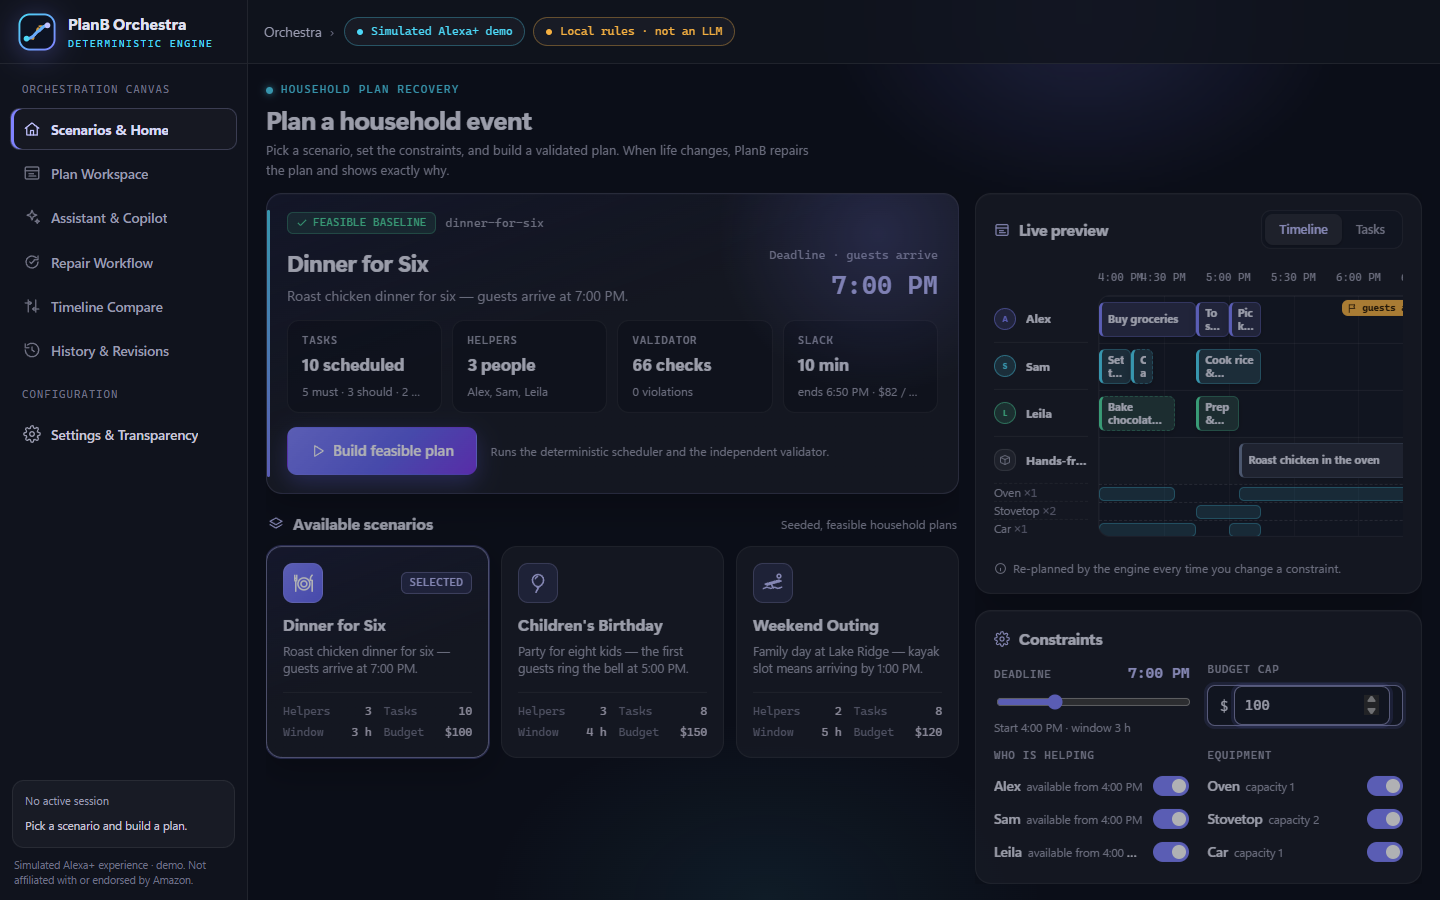
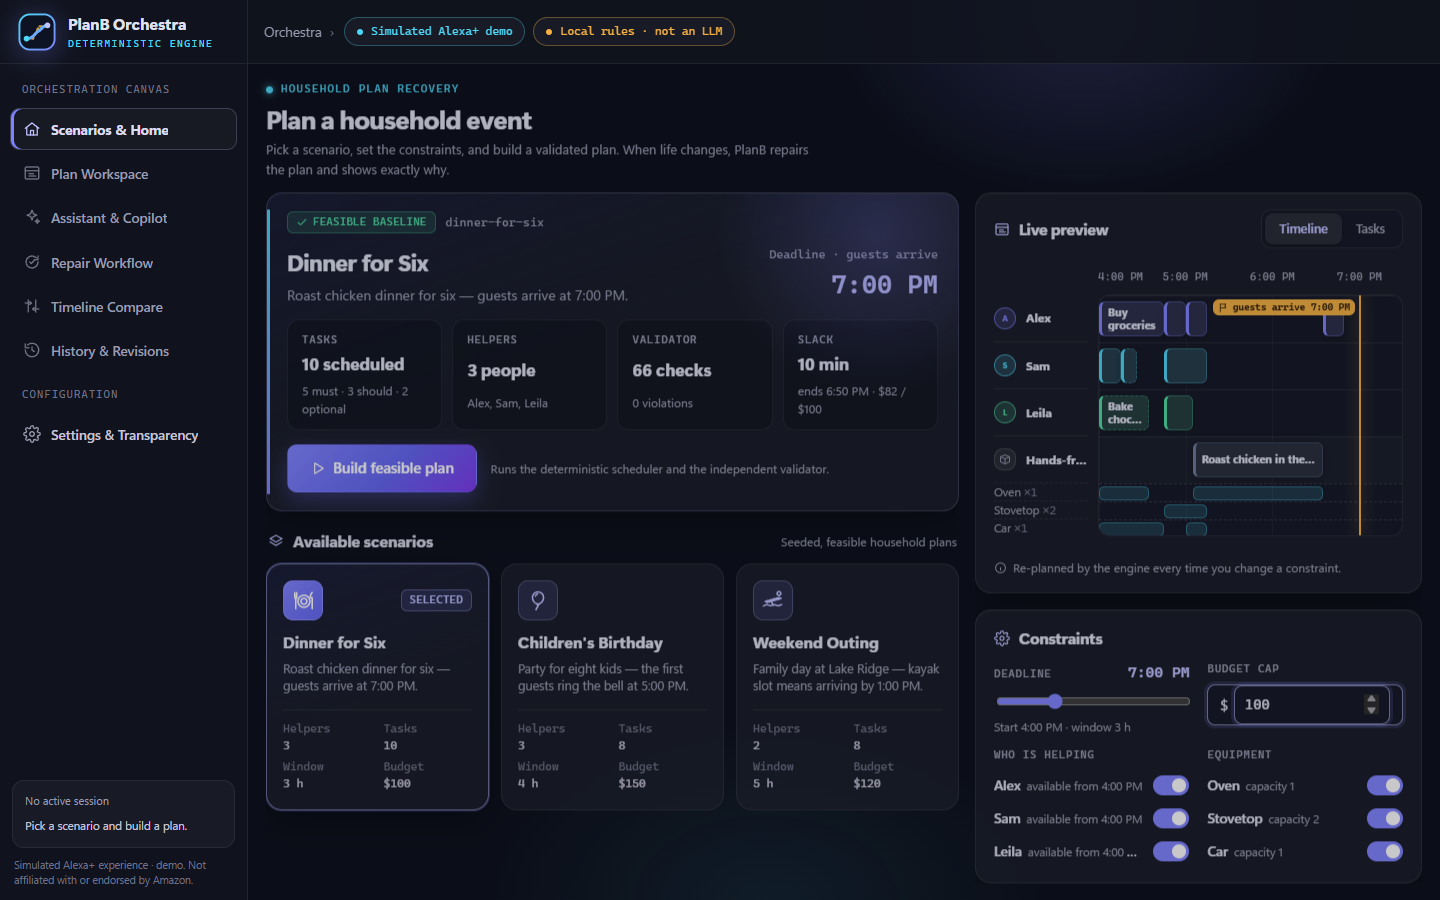
Home live preview fits its card; hero no longer clipped
- The compact preview timeline drops the 560 px minimum width and grows with
  its card instead of scrolling inside it; hourly labels in compact charts and
  a right-aligned end label stop time labels colliding.
- Cards in the home columns no longer shrink (the column scrolls instead), so
  the hero's Build button is never clipped.
- Hero stat captions wrap to two lines; scenario tile facts stack label over
  value when the tile is narrow.
- Smoke: new 1230×908 home check (26 total).

diff --git a/src/components.js b/src/components.js
@@ -175,7 +175,8 @@ export function renderTimeline(opts) {
     ? { ...base, row: opts.rowH, bar: opts.rowH - (opts.rowH >= 64 ? 20 : opts.rowH >= 44 ? 12 : 8), res: opts.rowH < 44 ? 20 : base.res }
     : base;
   const layout = buildLayout(state, [plan, prevPlan], size);
-  const step = axis.span > 330 ? 60 : 30;
+  // Compact charts sit in narrow cards: hourly labels so neighbouring times never collide.
+  const step = axis.span > (opts.compact ? 150 : 330) ? 60 : 30;
   const ticks = [];
   for (let m = axis.start; m <= axis.end; m += step) ticks.push(m);
 
@@ -260,7 +261,7 @@ export function renderTimeline(opts) {
     <div class="tl-grid">
       <div class="tl-labels" style="height:${layout.height + 34}px"><div class="tl-corner">${opts.compact ? '' : 'People &amp; equipment'}</div><div class="tl-labels-body" style="height:${layout.height}px">${labels}</div></div>
       <div class="tl-main">
-        <div class="tl-axis">${ticks.map((m) => `<span style="left:${pct(axis, m)}%">${esc(clock(m))}</span>`).join('')}</div>
+        <div class="tl-axis">${ticks.map((m) => `<span ${m === axis.end ? 'class="axis-end" ' : ''}style="left:${pct(axis, m)}%">${esc(clock(m))}</span>`).join('')}</div>
         <div class="tl-body" style="height:${layout.height}px">
           ${ticks.map((m) => `<div class="tick" style="left:${pct(axis, m)}%"></div>`).join('')}
           ${shades}${resRows}${ghostHtml}${bars}${prevDeadline}${deadline}${now}

diff --git a/src/styles.css b/src/styles.css
@@ -733,3 +733,21 @@ table.tasks { width: 100%; min-width: 640px; border-collapse: collapse; font-siz
 .card-head .pill, .card-head .tag { max-width: 100%; min-width: 0; overflow: hidden; text-overflow: ellipsis; }
 .card { overflow: hidden; }
 .hero, .modal { overflow: hidden; }
+/* Clipping cards must not shrink inside the home columns; the column scrolls instead. */
+.home-main > *, .home-side > * { flex-shrink: 0; }
+
+/* Home live preview: the chart fits the card width instead of scrolling inside it. */
+.tl-axis span.axis-end { transform: translateX(-100%); }
+@media (min-width: 761px) {
+  .preview-body .tl { min-width: 0; }
+  .preview { flex: 1 0 auto; }
+  .preview-body { flex: 1 0 auto; overflow: visible; }
+}
+@container (max-width: 30px) { .tl-compact .bar-title { display: none; } }
+.hs .muted { white-space: normal; display: -webkit-box; -webkit-line-clamp: 2; -webkit-box-orient: vertical; }
+
+/* Scenario tiles: label above value when the tile is too narrow for both on one line. */
+.tile { container-type: inline-size; }
+@container (max-width: 200px) {
+  .tile-facts span { flex-direction: column; justify-content: flex-start; }
+}

diff --git a/docs/DEMO_SCRIPT.md b/docs/DEMO_SCRIPT.md
@@ -8,7 +8,7 @@ exact sequence; if anything differs on recording day, narrate what the screen sh
 1. `npm start`, open http://localhost:5173. If a session is restored, open **Settings & Transparency → Clear saved session**.
 2. Keep **Settings → Review changes before replanning** on (default).
 3. Close notifications. No third-party music; your own voice or silence plus captions.
-4. Optional dry run: `npm test` (80 pass) and `npm run test:smoke` (25 pass).
+4. Optional dry run: `npm test` (80 pass) and `npm run test:smoke` (26 pass).
 
 ## Storyboard
 
@@ -21,7 +21,7 @@ exact sequence; if anything differs on recording day, narrate what the screen sh
 | 0:58–1:20 | Banner → **See before / after**: Plan A marks the tasks that change; Plan B shows *Replaced*, *Reassigned*, *Moved* chips; change map: roast → *Pan-sear chicken thighs* (*Alternative used*, *Equipment down*), *Plate & serve* (*Dependency moved*). Then **Repair Workflow**: six completed stages. | "Every change has a reason code with evidence — not a guessed explanation." |
 | 1:20–1:48 | **Assistant & Copilot**: chip *Advance clock 40 min* (clock 4:40 PM), chip *Sam can't help* → review card → **Apply & replan** (r2, Cook rice → Alex, *Person unavailable*). Type "Leila is running 10 minutes late" → review → apply (r3, still 5:55 PM). | "Consecutive changes in my own words. Started work stays fixed; nobody is invented." |
 | 1:48–2:18 | Press **F5** — same session, r3, 4:40 PM. Assistant chip *Budget is now $80* → review shows *No feasible plan* → **Record & show options** → crisis panel: proven bound "Cheapest valid plan costs $86 ($73 already committed)" and two verified options. **Apply** *Skip "Pick up fresh bread"* → $79 / $80, r4. | "Impossible requests are rejected with the reason, and only options the planner has verified are offered." |
-| 2:18–2:45 | **Undo** in the top bar → r3; open **History & Revisions** (revision timeline + snapshot diff). Cut to terminal: `npm test` (80 pass), `npm run test:smoke` (25 pass). End on **Settings & Transparency** (simulated Alexa+, local rule parser, deterministic engine). | "A simulated Alexa+ experience for trustworthy household orchestration — deterministic, validated, and honest about what it can't do." |
+| 2:18–2:45 | **Undo** in the top bar → r3; open **History & Revisions** (revision timeline + snapshot diff). Cut to terminal: `npm test` (80 pass), `npm run test:smoke` (26 pass). End on **Settings & Transparency** (simulated Alexa+, local rule parser, deterministic engine). | "A simulated Alexa+ experience for trustworthy household orchestration — deterministic, validated, and honest about what it can't do." |
 
 ## Other phrasings that work with the local parser
 

diff --git a/docs/TEST_REPORT.md b/docs/TEST_REPORT.md
@@ -1,6 +1,6 @@
 # Test report
 
-Generated from real CLI runs on 2026-10-21T14:39Z (Windows 11, Node v24.11.0). Nothing below is hand-written as a result.
+Generated from real CLI runs on 2026-10-21T15:07Z (Windows 11, Node v24.11.0). Nothing below is hand-written as a result.
 
 ## `npm test` (node:test)
 
@@ -36,13 +36,14 @@ PASS  keyboard: D opens the dialog, Escape closes it and dismisses the crisis pa
 PASS  settings & transparency shows parser status, engine facts and preferences
 PASS  1920×1080: every screen fits without page scrolling
 PASS  1500×900 (three-column settings): nothing sticks out of its card on any screen
+PASS  1230×908 home: live preview fits its card (no inner scrollbars, no overlapping times), hero not clipped
 PASS  1280×720: restored session fits, compact disclosures visible
 PASS  1024×768 tablet: stacked layout without horizontal page overflow
 PASS  other scenarios build feasible baselines; outing replans a partner leaving
 PASS  API outage does not blank the app (falls back to the local parser)
 PASS  phone 390×844 and tablet 768×1024: home has no horizontal scroll
 PASS  no console errors during the run
-Smoke: 25 passed, 0 failed. Screenshots in evidence/
+Smoke: 26 passed, 0 failed. Screenshots in evidence/
 ```
 
 Screenshots from this run are in `evidence/`; machine-readable results in `evidence/smoke-results.json`.

diff --git a/docs/COMPETITION_CHECKLIST.md b/docs/COMPETITION_CHECKLIST.md
@@ -6,7 +6,7 @@ Checked = verified in this repository. Unchecked = not done or needs the operato
 ## Build (verified)
 
 - [x] Running app with plan → shock → replan → diff → second shock → undo → reload → infeasible flow (smoke test, `docs/TEST_REPORT.md`).
-- [x] Tests actually executed and copied to `docs/TEST_REPORT.md` (80 unit/integration/scenario/corpus/adapter/audit tests, 25 browser checks).
+- [x] Tests actually executed and copied to `docs/TEST_REPORT.md` (80 unit/integration/scenario/corpus/adapter/audit tests, 26 browser checks).
 - [x] All three baseline scenarios independently validated; hard and impossible cases tested.
 - [x] UI labels the simulated Alexa+ experience and the limited local parser; no Amazon logo or endorsement claim.
 - [x] `.env` ignored; `.env.example` contains names only; no keys, passwords or personal data in the repo.

diff --git a/docs/DEVPOST_SUBMISSION.md b/docs/DEVPOST_SUBMISSION.md
@@ -75,7 +75,7 @@ picks one. Sessions, revisions, undo and the simulation clock survive a page rel
 - 80 automated tests, including a randomized audit of 500 random change sequences (911 feasible replans and 148
   infeasible outcomes in the latest run) checked by the validator and an independent minute-by-minute brute-force
   checker — 0 violations — and story tests for all three scenarios.
-- 25/25 browser smoke checks in real Chrome at 1920×1080, 1500×900, 1440×900, 1280×720, 1024×768, 768×1024 and 390×844 — every
+- 26/26 browser smoke checks in real Chrome at 1920×1080, 1500×900, 1440×900, 1230×908, 1280×720, 1024×768, 768×1024 and 390×844 — every
   desktop screen fits without page scrolling — with no console errors.
 - Every explanation is generated from reason codes and plan data; nothing is free-text invention.
 

diff --git a/README.md b/README.md
@@ -121,7 +121,7 @@ server/   app.js (Express: /api/health, /api/intent, static), llm-adapter.js, sc
 src/      index.html, styles.css, app.js (controller), views.js (screens), components.js (timeline & primitives), persistence.js
 src/engine/  model, validate, scheduler, shocks, diff, reasons, session, parser, agent
 src/data/scenarios.js   seeded fixtures (deep-frozen)
-tests/    unit, integration, scenario stories, phrasing corpus, LLM adapter (offline), randomized audit, smoke/ (25 browser checks)
+tests/    unit, integration, scenario stories, phrasing corpus, LLM adapter (offline), randomized audit, smoke/ (26 browser checks)
 docs/     ARCHITECTURE, DEMO_SCRIPT, DEVPOST_SUBMISSION, TEST_REPORT, PRODUCT_FEEDBACK, FRICTION_LOG, COMPETITION_CHECKLIST
 ```
 
